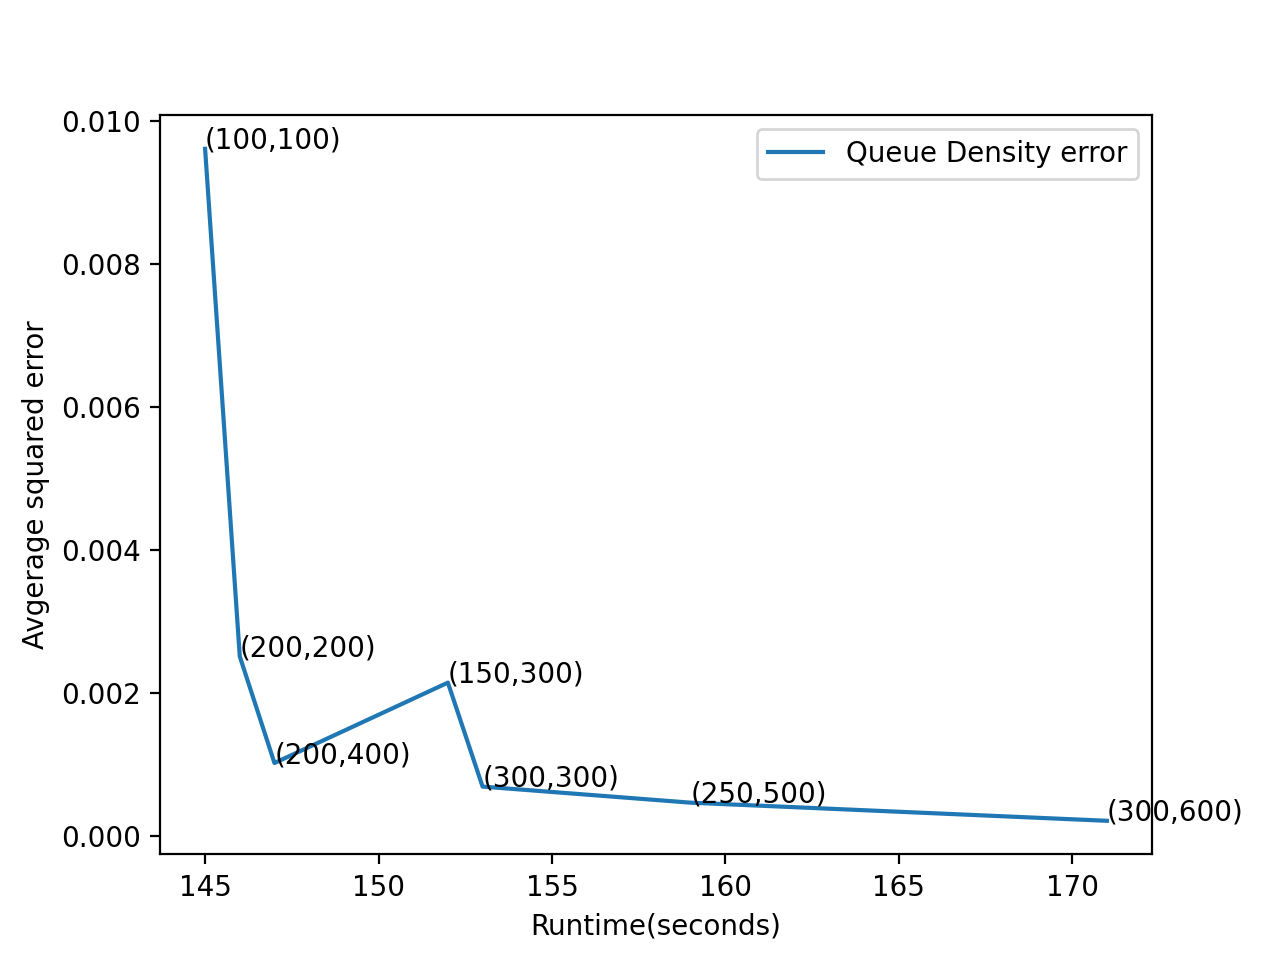
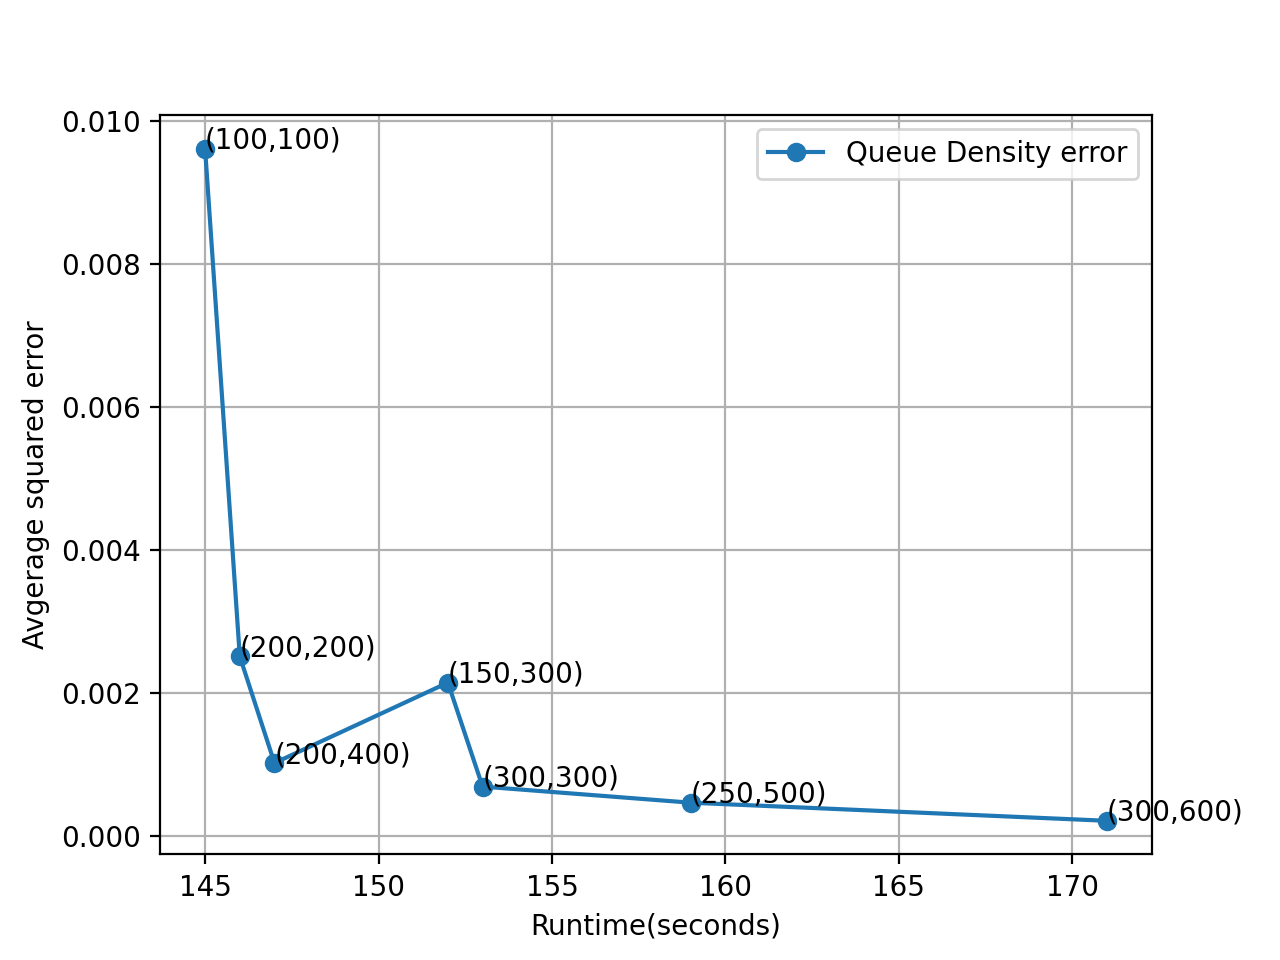
grids added to graph

diff --git a/Analysis/outputs/method1sys2/plot_method1.py b/Analysis/outputs/method1sys2/plot_method1.py
@@ -37,16 +37,18 @@ def main():
 	plt.figure()
 	plt.xlabel("Number of frames skipped")
 	plt.ylabel("Avgerage squared error")
-	plt.plot(x,q,label="Queue Density error")
-	plt.plot(x,d,label="Dynamic Density error")
+	plt.plot(x,q,label="Queue Density error",marker='o')
+	plt.plot(x,d,label="Dynamic Density error",marker='o')
 	plt.legend()
+	plt.grid()
 	plt.savefig("plot1.png",dpi=200)
 	plt.show()
 	
 	plt.figure()
 	plt.xlabel("Number of frames skipped")
 	plt.ylabel("Runtime(seconds)")
-	plt.plot(x,t)
+	plt.plot(x,t,marker='o')
+	plt.grid()
 	plt.savefig("plot2.png",dpi=200)
 	plt.show()
 	
@@ -69,6 +71,7 @@ def main():
 	plt.plot(xax,yax2,label="Dynamic density when 5 frames skipped")
 	plt.plot(xax,yax3,label="Dynamic density when 14 frames skipped")
 	plt.legend()
+	plt.grid()
 	plt.savefig("plot3.png",dpi=200)
 	plt.show()
 	
@@ -77,18 +80,20 @@ def main():
 	plt.figure()
 	plt.xlabel("Number of frames skipped")
 	plt.ylabel("Utility Percentage")
-	plt.plot(x,q,label="Queue Density utility percentage")
-	plt.plot(x,d,label="Dynamic Density utility percentage")
+	plt.plot(x,q,label="Queue Density utility percentage",marker='o')
+	plt.plot(x,d,label="Dynamic Density utility percentage",marker='o')
 	plt.legend()
+	plt.grid()
 	plt.savefig("plot4.png",dpi=200)
 	plt.show()
 	
 	plt.figure()
 	plt.xlabel("Runtime (seconds)")
 	plt.ylabel("Utility Percentage")
-	plt.plot(t,q,label="Queue Density utility percentage")
-	plt.plot(t,d,label="Dynamic Density utility percentage")
+	plt.plot(t,q,label="Queue Density utility percentage",marker='o')
+	plt.plot(t,d,label="Dynamic Density utility percentage",marker='o')
 	plt.legend()
+	plt.grid()
 	plt.savefig("plot5.png",dpi=200)
 	plt.show()
 	

diff --git a/Analysis/outputs/method2sys2/plot_method2.py b/Analysis/outputs/method2sys2/plot_method2.py
@@ -36,20 +36,22 @@ def main():
 	plt.figure()
 	plt.xlabel("Runtime(seconds)")
 	plt.ylabel("Avgerage squared error")
-	plt.plot(t,q,label="Queue Density error")
+	plt.plot(t,q,label="Queue Density error",marker='o')
 	plt.legend()
 	for i in range(len(t)):
 		plt.annotate("("+str(runtime[i][0])+","+str(runtime[i][1])+")",(t[i],q[i]));
+	plt.grid()
 	plt.savefig("plot1.png",dpi=200)
 	plt.show()
 	
 	plt.figure()
 	plt.xlabel("Runtime(seconds)")
 	plt.ylabel("Avgerage squared error")
-	plt.plot(t,d,label="Dynamic Density error")
+	plt.plot(t,d,label="Dynamic Density error",marker='o')
 	plt.legend()
 	for i in range(len(t)):
 		plt.annotate("("+str(runtime[i][0])+","+str(runtime[i][1])+")",(t[i],d[i]));
+	plt.grid()
 	plt.savefig("plot2.png",dpi=200)
 	plt.show()
 	
@@ -59,20 +61,22 @@ def main():
 	plt.figure()
 	plt.xlabel("Runtime(seconds)")
 	plt.ylabel("Avgerage squared error")
-	plt.plot(t,q,label="Queue Density error")
+	plt.plot(t,q,label="Queue Density error",marker='o')
 	plt.legend()
 	for i in range(len(t)):
 		plt.annotate("("+str(runtime[i][0])+","+str(runtime[i][1])+")",(t[i],q[i]));
+	plt.grid()
 	plt.savefig("plot3.png",dpi=200)
 	plt.show()
 	
 	plt.figure()
 	plt.xlabel("Runtime(seconds)")
 	plt.ylabel("Avgerage squared error")
-	plt.plot(t,d,label="Dynamic Density error")
+	plt.plot(t,d,label="Dynamic Density error",marker='o')
 	plt.legend()
 	for i in range(len(t)):
 		plt.annotate("("+str(runtime[i][0])+","+str(runtime[i][1])+")",(t[i],d[i]));
+	plt.grid()
 	plt.savefig("plot4.png",dpi=200)
 	plt.show()
 	

diff --git a/Analysis/outputs/method3sys2/plot_method3.py b/Analysis/outputs/method3sys2/plot_method3.py
@@ -41,6 +41,7 @@ def main():
 	plt.plot(th,q,label="Queue Density error",marker='o')
 	plt.plot(th,d,label="Dynamic Density error",marker='o')
 	plt.legend()
+	plt.grid()
 	plt.savefig("plot1.png",dpi=200)
 	plt.show()
 	
@@ -54,6 +55,7 @@ def main():
 	lns=ln1+ln2
 	labs=[l.get_label() for l in lns]
 	ax.legend(lns,labs,loc=5)
+	plt.grid()
 	plt.savefig("plot2.png",dpi=200)
 	plt.show()
 	
@@ -65,6 +67,7 @@ def main():
 	plt.plot(th,q,label="Queue Density utility percentage",marker='o')
 	plt.plot(th,d,label="Dynamic Density utility percentage",marker='o')
 	plt.legend()
+	plt.grid()
 	plt.savefig("plot3.png",dpi=200)
 	plt.show()
 	
@@ -74,6 +77,7 @@ def main():
 	plt.plot(ti,q,label="Queue Density utility percentage",marker='o')
 	plt.plot(ti,d,label="Dynamic Density utility percentage",marker='o')
 	plt.legend()
+	plt.grid()
 	plt.savefig("plot4.png",dpi=200)
 	plt.show()
 	
